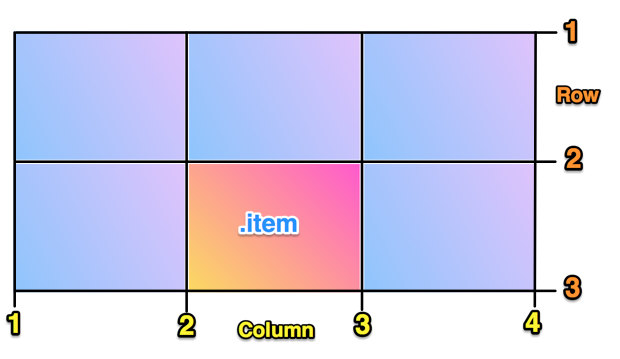
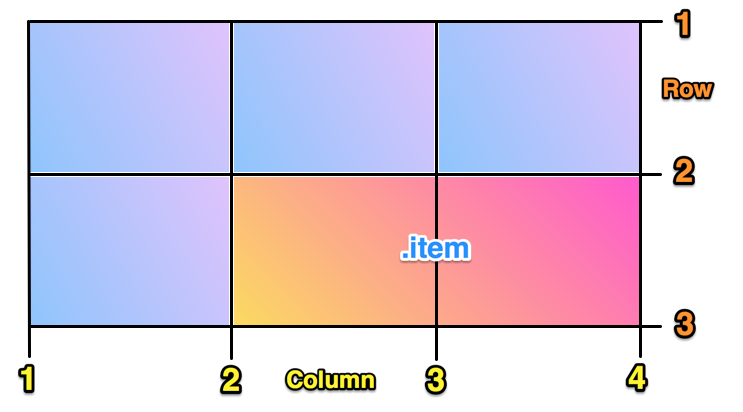
CSS grid demo zero: Concepts and Terminology - example2

diff --git a/CSS-grid-demo/case-study-1/index.html b/CSS-grid-demo/case-study-1/index.html
@@ -42,14 +42,13 @@
         </header>
         <div class="demo-title">
           <h3 class="title-example title-1">
-            Grid Lines : Grid lines are the horizontal and vertical dividing lines of the grid. A grid line exists on either side of a column or row. They can be referred to by numerical index.
+            Grid Lines : Grid lines are the horizontal and vertical dividing lines of the grid. A grid line exists on either side of a column or row. They can be referred to by numerical index, which starts at 1.
           </h3>
           <h3 class="title-example title-2">
-            Three columns layout : 1 fraction, 2 fractions, 3 fractions 
+            Grid Lines : Grid lines can be referred to by an author-specified name.
           </h3>
           <h3 class="title-example title-3">
-            Three columns : 50%, 100px, and the remaining available fraction,
-            Two rows: 100px and 200px 
+            Grid Tracks and Cells
           </h3>
           <h3 class="title-example title-4">
             Grid auto-flow column
@@ -75,6 +74,9 @@
           <div class="image-container container-2">
             <img src="img/grid-line2.png" alt="">
           </div>
+          <div class="image-container container-3">
+            <img src="img/grid-track.png" alt="">
+          </div>
         </div>
 
 <div id="demo-zero-code" class="demo-code">
@@ -93,7 +95,7 @@
 
     .item {
       grid-column-start: 2;
-      grid-column-end: 3;
+      grid-column-end: 4;
       grid-row-start: 2;
       grid-row-end: 3;
     }
@@ -103,12 +105,23 @@
 <div id="demo-1-ex-2" class="code-example code-2">
   <pre rel="css" class="language-css">
     <code class="language-css">
-  /* Three columns: 1 fraction, 2 fractions, 3 fractions */
-  .grid-container {
+    /* Three columns: 200px each */
+    /* Two rows: 150px each */
+    .grid-container {
       display: grid;
-      grid-template-columns: 1fr 2fr 3fr;
-      grid-gap: 20px;
-  }</code></pre>
+      grid-template-columns: 200px [col-start] 200px 200px [col-end];
+      grid-template-rows: 150px [row-start] 150px [row-end];
+    }
+
+    /* equivalent layout to the prior example, but using named lines */
+    .item {
+      grid-column-start: col-start;
+      grid-column-end: col-end;
+      grid-row-start: row-start;
+      grid-row-end: row-end;
+    }
+    </code>
+  </pre>
 </div>
 <div id="demo-1-ex-3" class="code-example code-3">
   <pre rel="css" class="language-css">

diff --git a/CSS-grid-demo/case-study-1/style.css b/CSS-grid-demo/case-study-1/style.css
@@ -805,16 +805,10 @@ a:link:active,a:link:focus,a:link:hover,a:visited:active,a:visited:focus,a:visit
     display: block
 }
 
-#demo-zero.example-3 .grid-container {
-    display: grid;
-    grid-template-columns: 50% 100px 1fr;
-    grid-template-rows: 100px 200px;
-    grid-gap: 20px
+#demo-zero.example-3 .container-3 {
+    display: block;
 }
 
-#demo-zero.example-3 .code-3 {
-    display: block
-}
 
 #demo-zero.example-3 .title-3 {
     display: block
